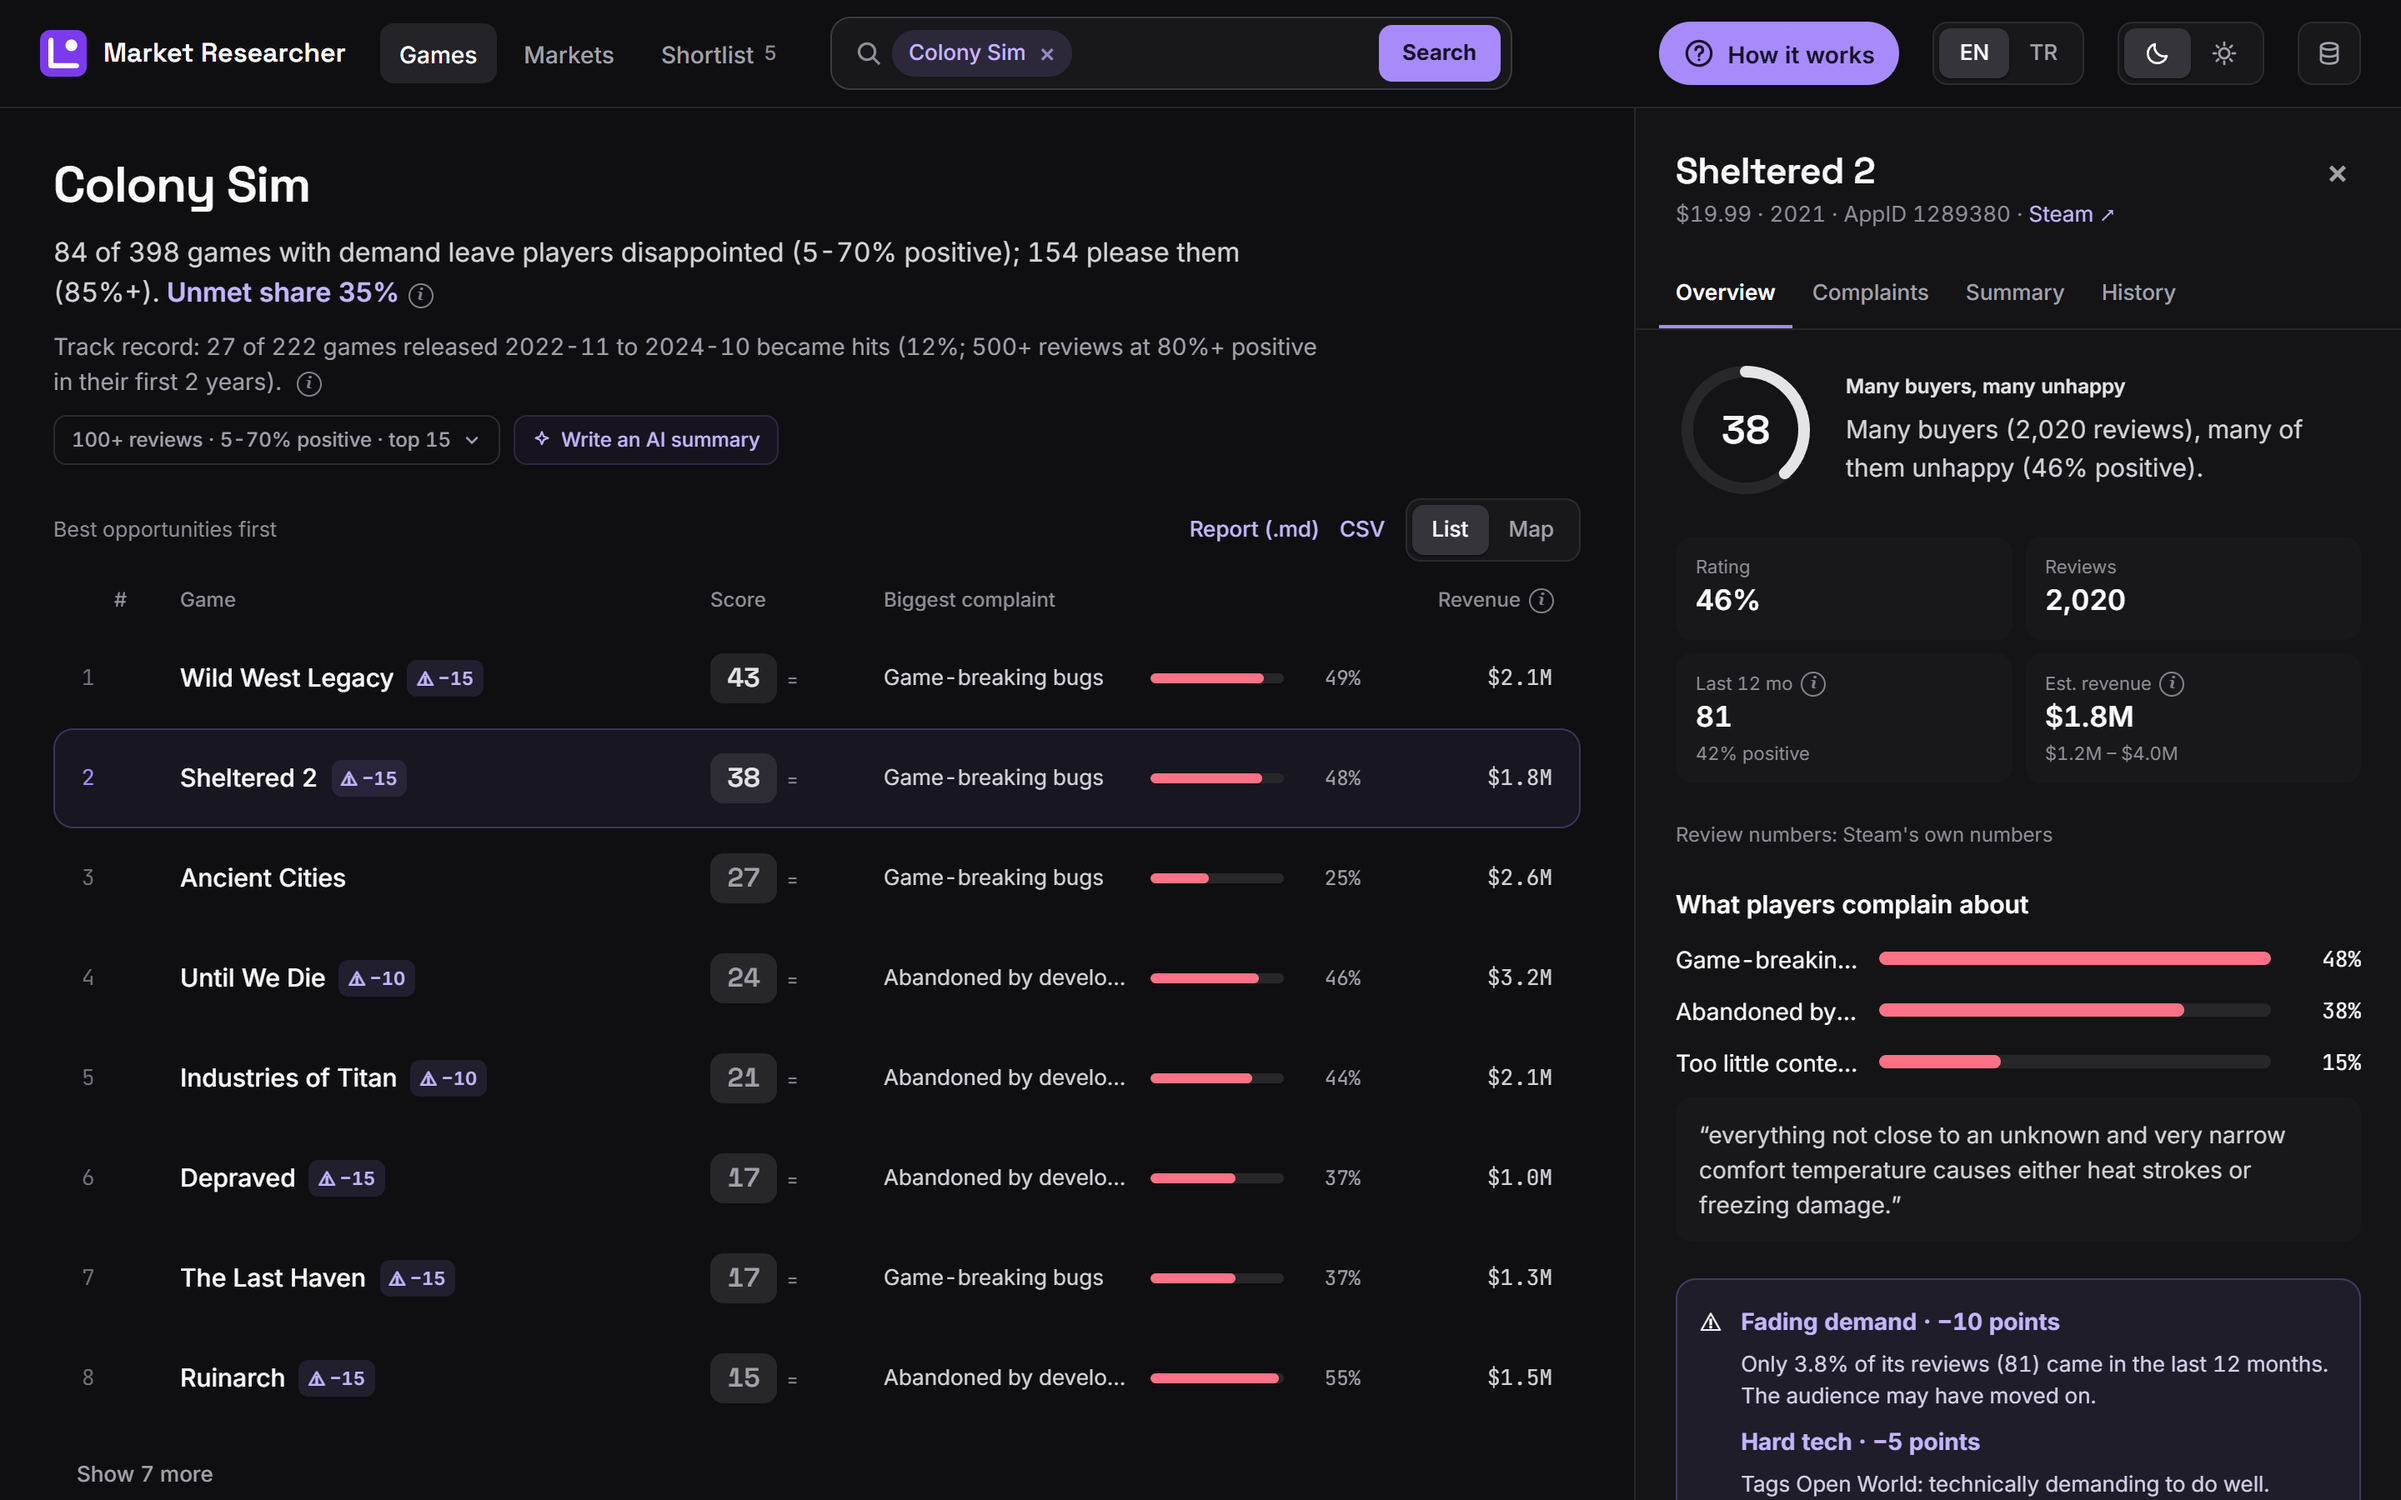
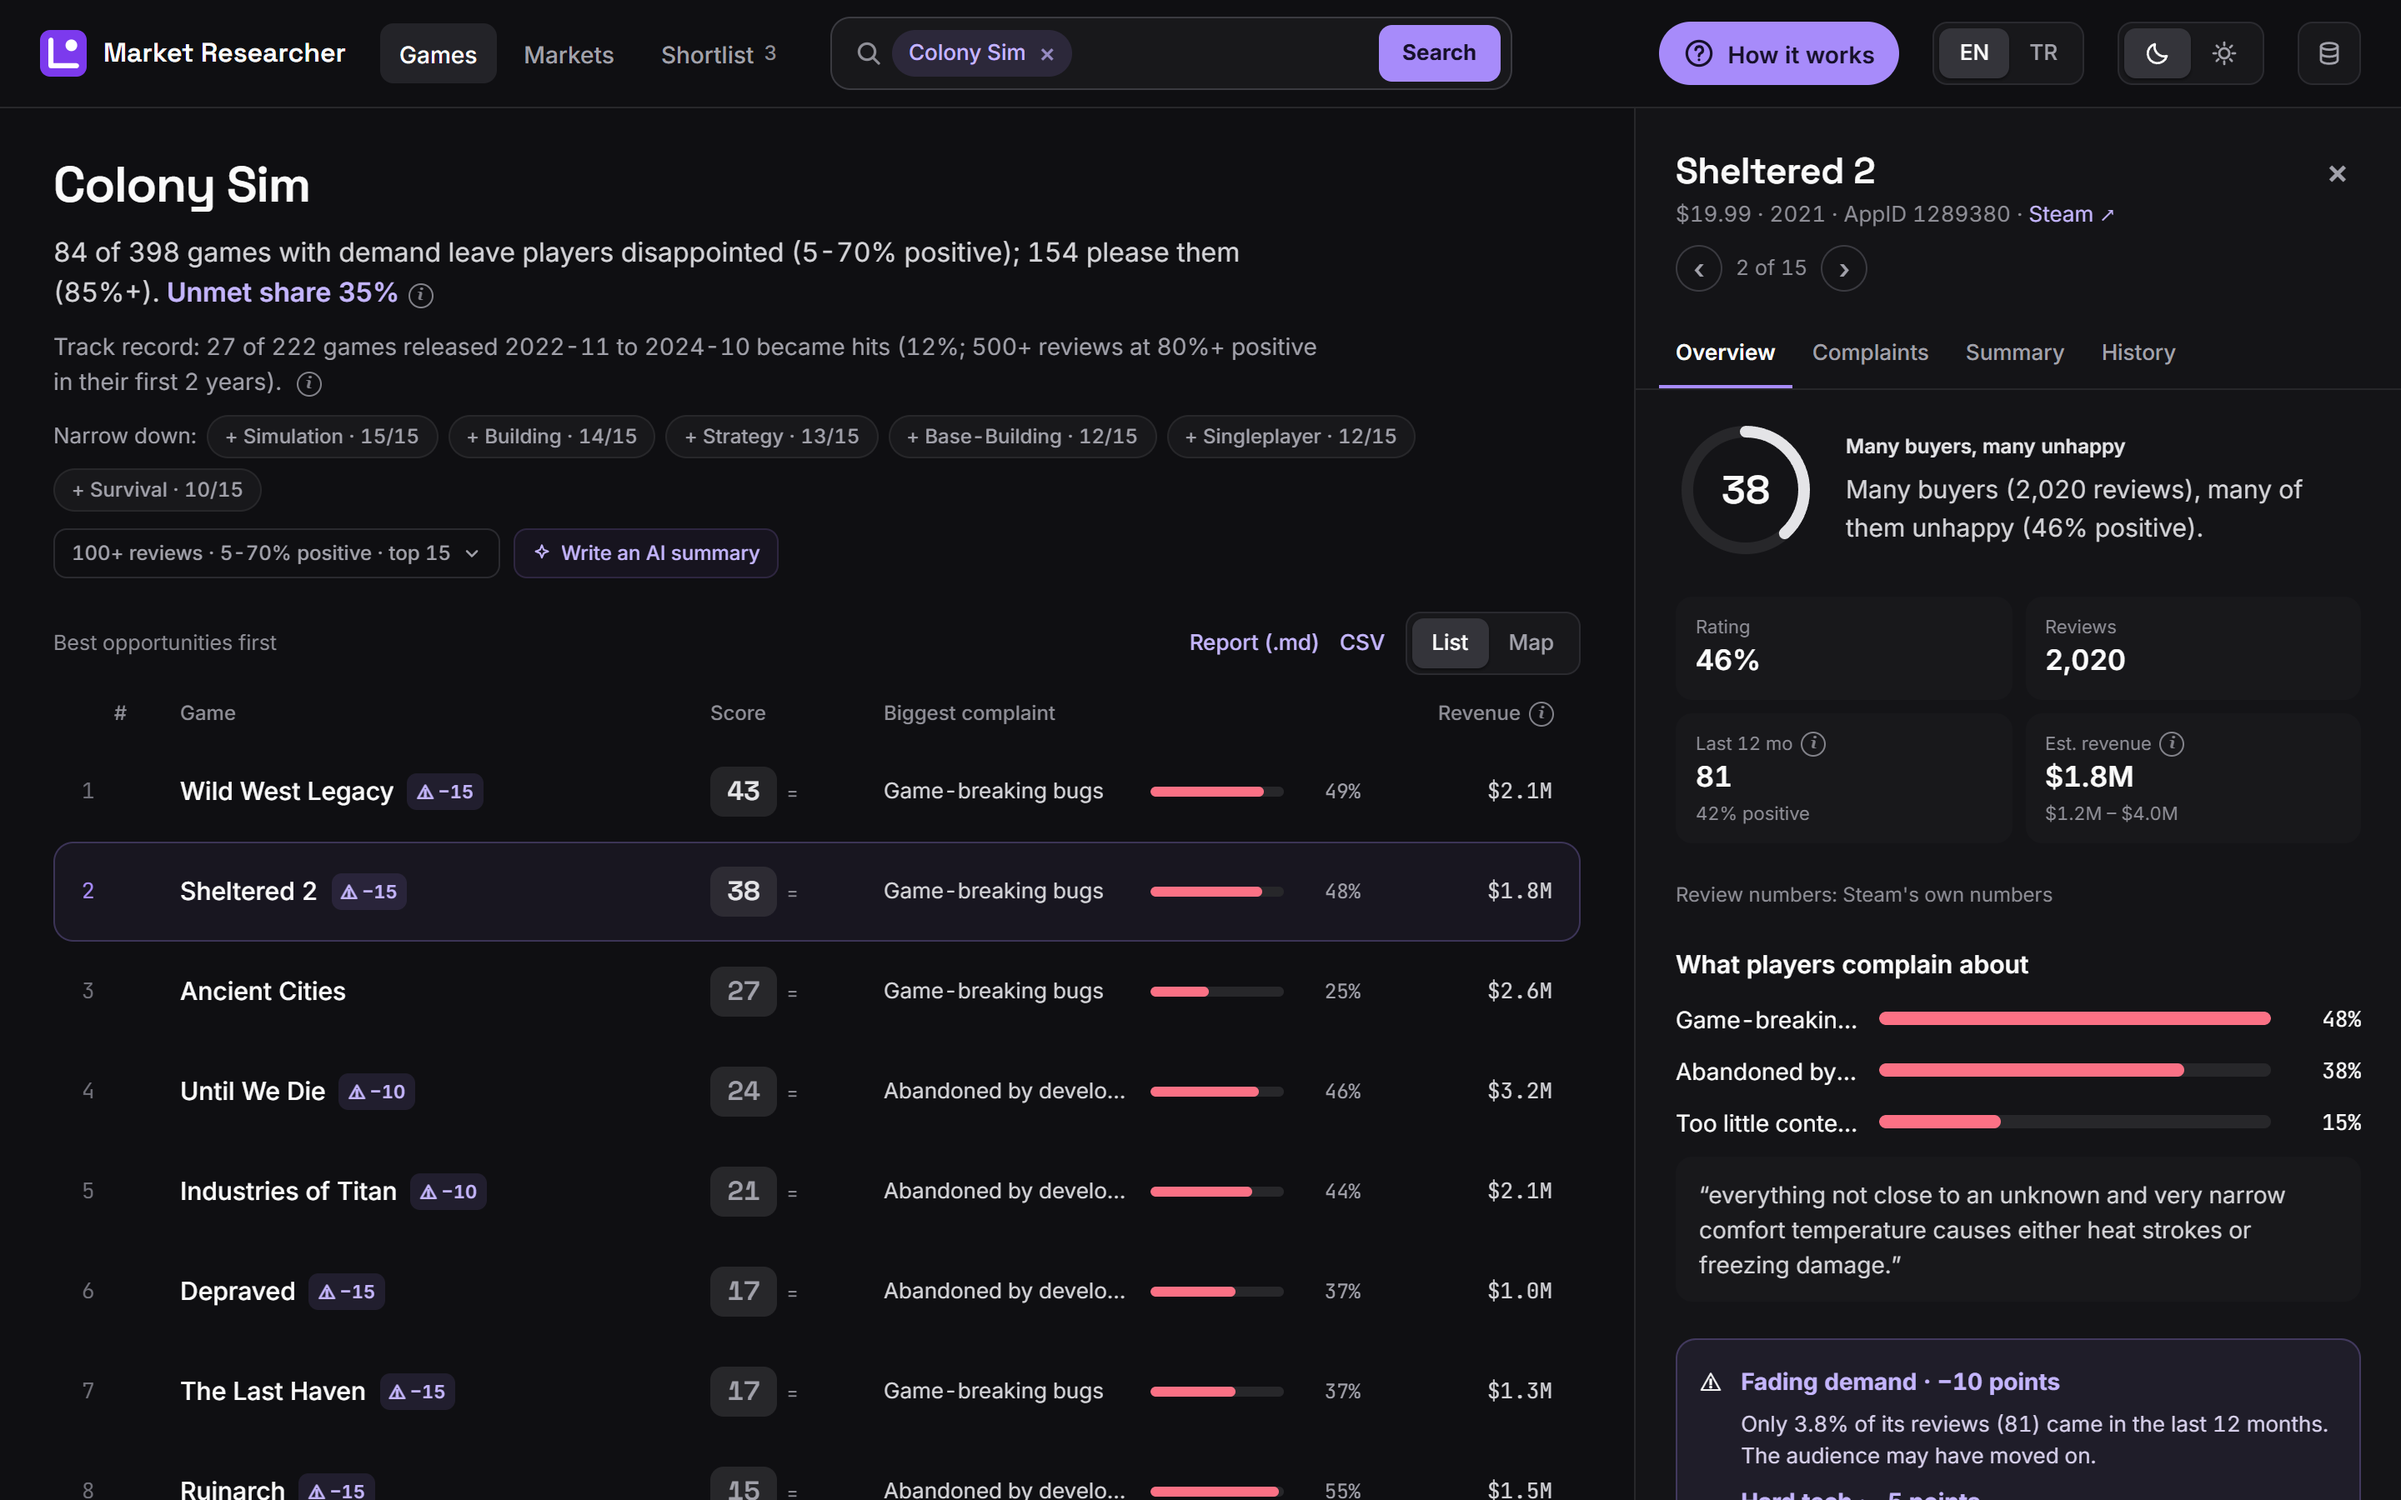
Wait for the refetched result in the Turkish UI test; retake the screenshot
After a language switch the panel is redrawn only once the result comes
back from the server in the new language; the test read it before that
and failed when the request was slow (CI run 43616819297).

The README screenshot now shows the narrowing chips and the panel's
previous/next buttons.

diff --git a/tests/test_ui.py b/tests/test_ui.py
@@ -277,6 +277,8 @@ def test_ui_turkish(base_url, browser):
     # Switch to Turkish with results on screen: everything is redrawn, nothing is lost.
     _setting(page, '#lang button[data-lang="tr"]')
     page.wait_for_function("document.querySelector('#run').textContent === 'Ara'")
+    # The panel and the server's text come with the result fetched again in Turkish: wait for it.
+    page.wait_for_function("document.querySelector('#panel .tabs')?.innerText.includes('Şikayetler')")
     assert page.get_attribute("html", "lang") == "tr"
     assert page.get_attribute('#lang button[data-lang="tr"]', "aria-pressed") == "true"
     assert page.inner_text("#help-toggle").strip() == "Nasıl çalışır?"
